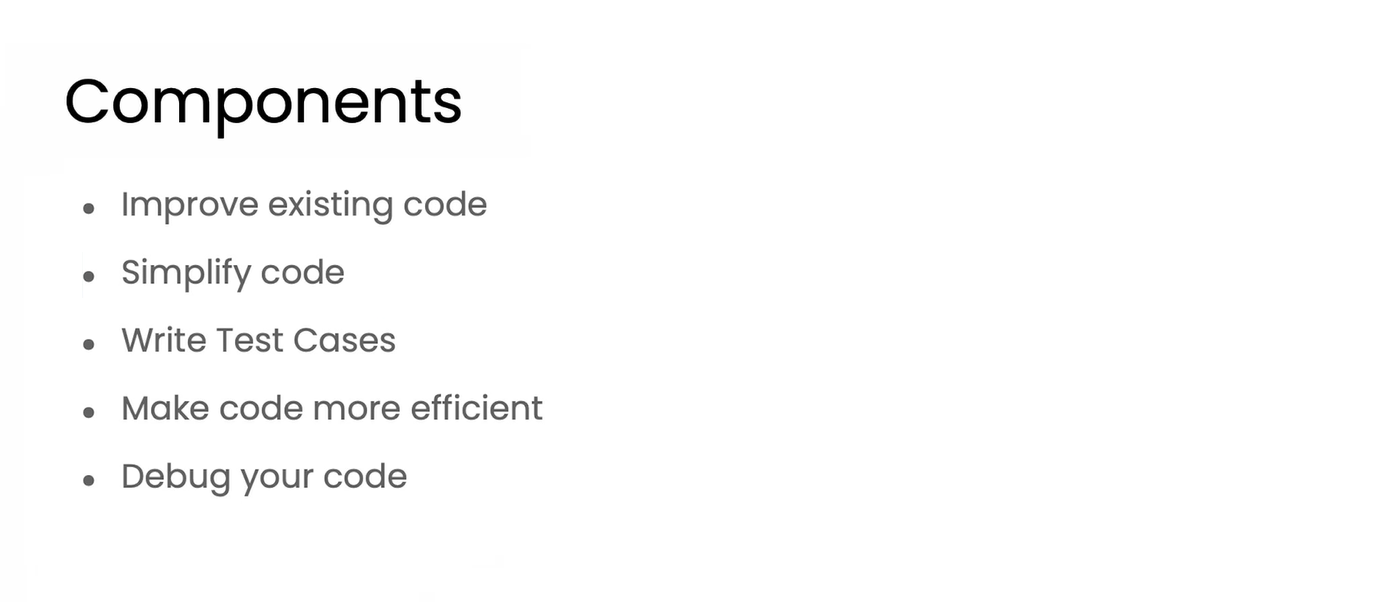
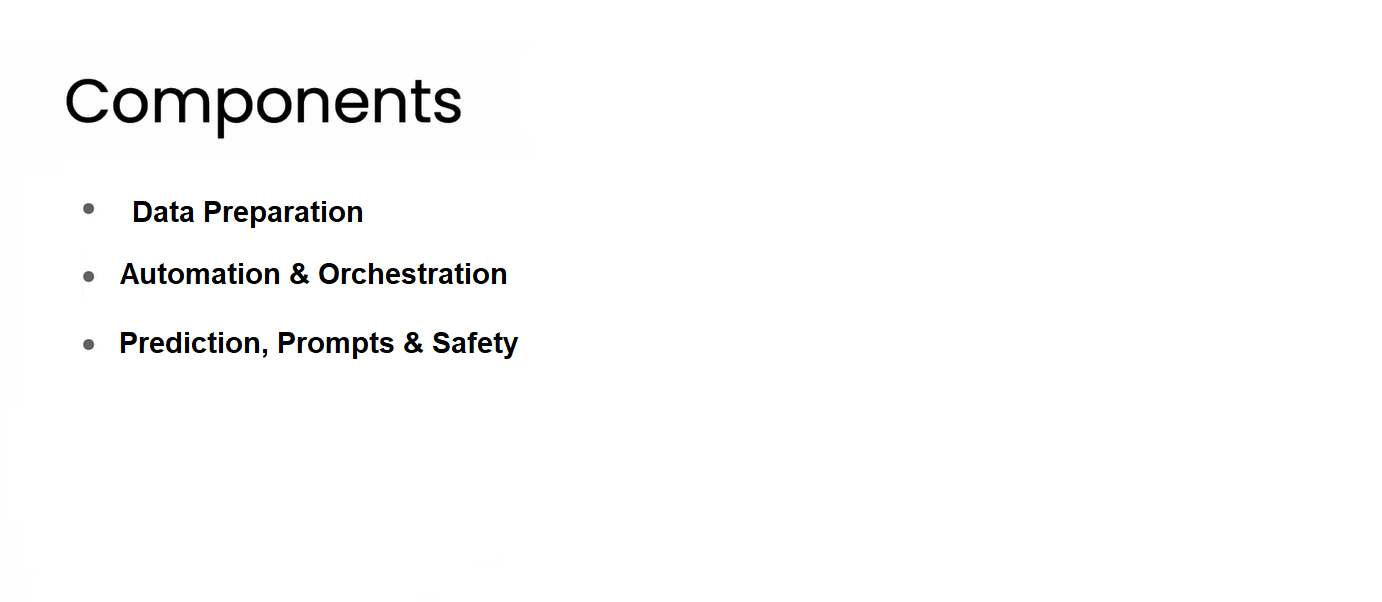
Modified

diff --git a/readme.md b/readme.md
@@ -1,4 +1,4 @@
-# Pair Programming with LLM (PaLM API)
+# LLMOps
 
 ![cover](./cover.jpg)
 ![components](./components.png)
